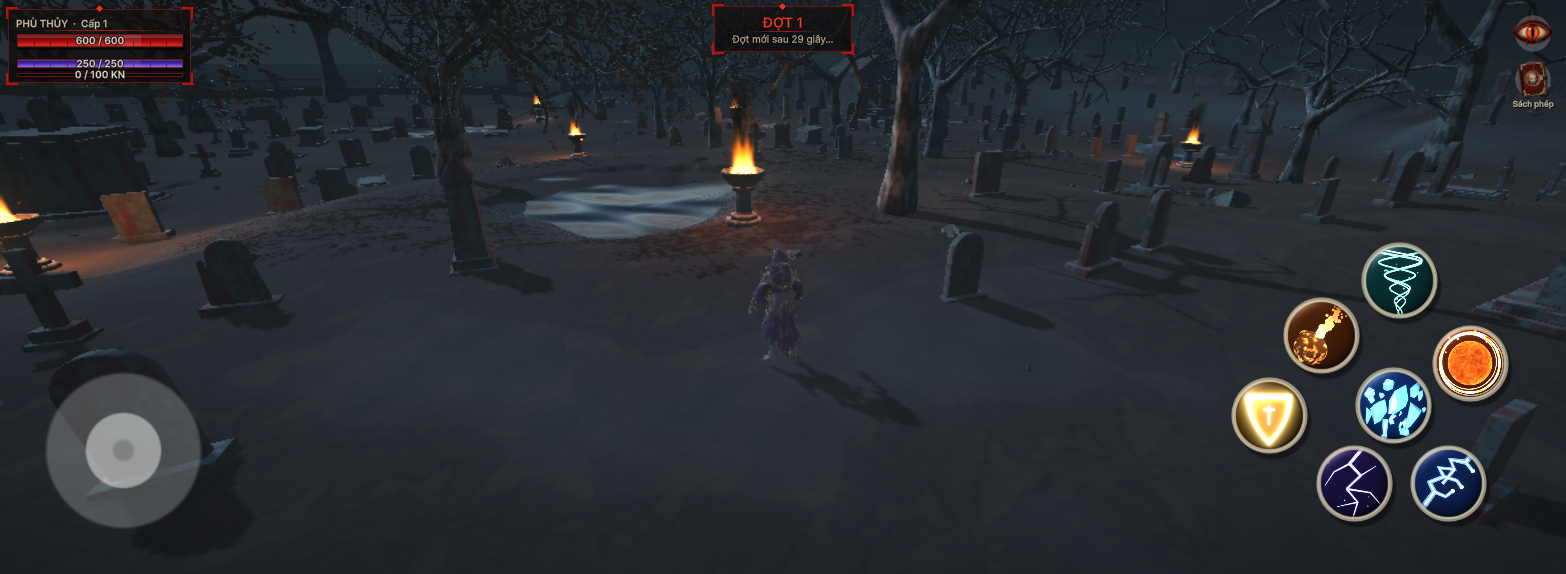
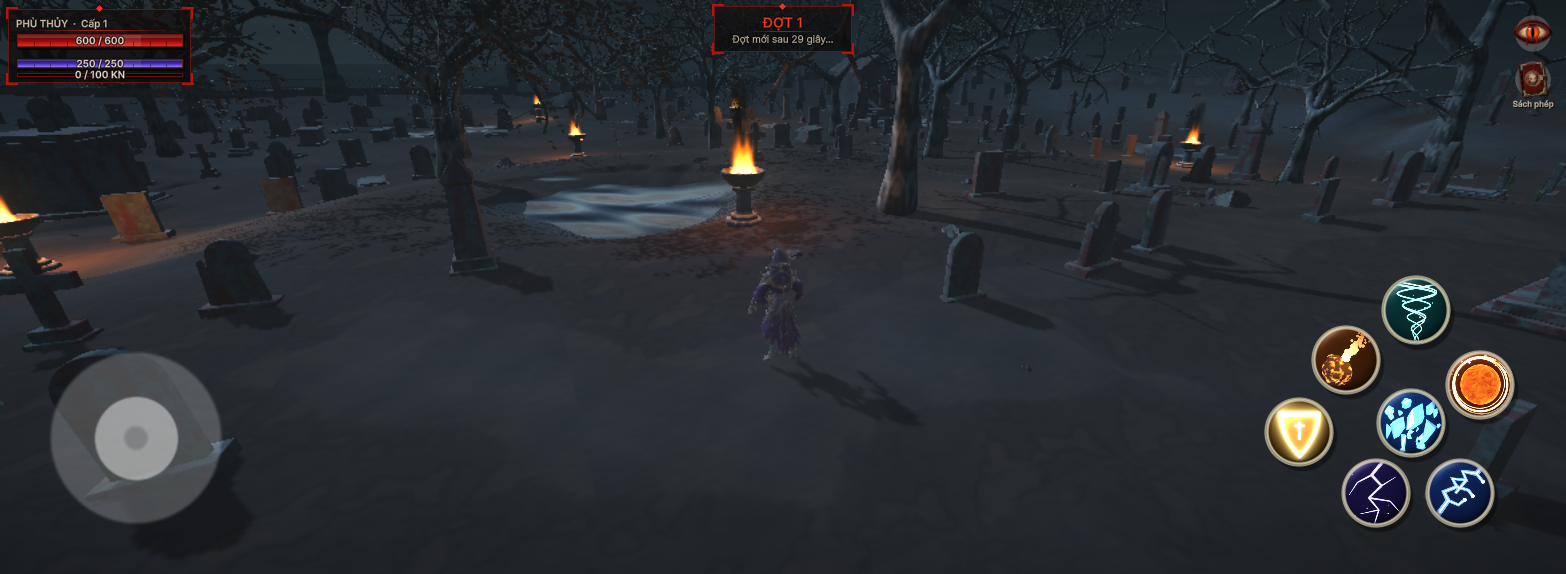
Cum nut ky nang nho bot 10% (tong x1,08); can dieu khien to them 10%
- Nut 72,864 -> 65,578 | le 121,44 -> 109,296 | cung 280,84/470,58/110,68
  -> 252,75/423,52/99,61. Goc giu nguyen.
- Can dieu khien: ban kinh 172,5 -> 189,75 VA tam 232,5 -> 255,75 (giu tam thi
  le tut 60 -> 42,75 va can bi cat o mep). Menu 78 muc A2 kiem.
- Doi chung cua menu 78 phai doc lap voi he so dang chinh: ban cu "thu cum ve
  1/he so" het bat duoc loi khi he so doi 1,2 -> 1,08. Nay la muc co dinh
  "phong rieng nut them 20%" -> chong nhau -9,6.

Changed region(s): [[0.7663, 0.4146, 0.9808, 0.9181], [0.0307, 0.5923, 0.1533, 0.9181], [0.092, 0.8589, 0.1226, 0.8885]]

diff --git a/Assets/Editor/ThuCumNutCamUng.cs b/Assets/Editor/ThuCumNutCamUng.cs
@@ -35,10 +35,18 @@ public static class ThuCumNutCamUng
     static bool truocBat;
     static EnterPlayModeOptions truocOpt;
 
-    /// <summary>Ban kinh nut TRUOC khi nguoi dung xin to them 20% - moc de kiem "to dung 20%".</summary>
+    /// <summary>
+    /// Moc: kich thuoc cum nut va can joystick TRUOC khi nguoi dung xin doi (19/09/2026).
+    /// Nguoi dung xin hai lan trong cung ngay: to them 20%, roi thay to qua nen nho bot 10%
+    /// -> tong cong x1,2 x 0,9 = x1,08. Can joystick to them 10%.
+    /// </summary>
     const float RTruoc = 60.72f;
     const float LeTruoc = 101.2f;
-    const float HeSoXin = 1.20f;
+    const float HeSoXin = 1.20f * 0.90f;
+
+    const float TamJoyTruoc = 232.5f;
+    const float BanKinhJoyTruoc = 172.5f;
+    const float HeSoJoy = 1.10f;
 
     /// <summary>Man hinh that de thu: ten, rong, cao, co phai man NGANG khong.</summary>
     static readonly object[][] ManThu =
@@ -111,11 +119,25 @@ public static class ThuCumNutCamUng
             caoCu = Mathf.Max(caoCu, l.y + RTruoc);
         }
         Ghi("");
-        Ghi(string.Format("A. ban kinh nut {0:F3} (truoc {1:F3} -> x{2:F3}); ca cum {3:F1} x {4:F1} (truoc {5:F1} x {6:F1} -> x{7:F3} va x{8:F3})",
-            r, RTruoc, r / RTruoc, rong, cao, rongCu, caoCu, rong / rongCu, cao / caoCu));
-        Kiem(Mathf.Abs(r / RTruoc - HeSoXin) < 0.001f, "ban kinh nut khong to dung 20%");
-        Kiem(Mathf.Abs(rong / rongCu - HeSoXin) < 0.001f, "be ngang cum khong len dung 20% - cum bi keo meo");
-        Kiem(Mathf.Abs(cao / caoCu - HeSoXin) < 0.001f, "chieu cao cum khong len dung 20% - cum bi keo meo");
+        Ghi(string.Format("A. ban kinh nut {0:F3} (moc {1:F3} -> x{2:F3}, mong x{3:F3}); ca cum {4:F1} x {5:F1} (moc {6:F1} x {7:F1} -> x{8:F3} va x{9:F3})",
+            r, RTruoc, r / RTruoc, HeSoXin, rong, cao, rongCu, caoCu, rong / rongCu, cao / caoCu));
+        Kiem(Mathf.Abs(r / RTruoc - HeSoXin) < 0.001f, "ban kinh nut khong dung ti le da chot");
+        Kiem(Mathf.Abs(rong / rongCu - HeSoXin) < 0.001f, "be ngang cum khong dung ti le - cum bi keo meo");
+        Kiem(Mathf.Abs(cao / caoCu - HeSoXin) < 0.001f, "chieu cao cum khong dung ti le - cum bi keo meo");
+
+        // ---- A2. CAN JOYSTICK to dung 10% va khong bi cat o mep ----
+        float sMoc = 1f;
+        float bkJoy = GameHUD.BanKinhJoystick(sMoc);
+        Vector2 tamJoy = GameHUD.TamJoystick(sMoc);
+        float leJoy = tamJoy.x - bkJoy;                       // tam - ban kinh = le tu goc man hinh
+        float leJoyTruoc = TamJoyTruoc - BanKinhJoyTruoc;
+        Ghi(string.Format("A2. can joystick: ban kinh {0:F2} (moc {1:F2} -> x{2:F3}, mong x{3:F2}); tam {4:F2} (moc {5:F2} -> x{6:F3}); le tu goc man {7:F2} (moc {8:F2})",
+            bkJoy, BanKinhJoyTruoc, bkJoy / BanKinhJoyTruoc, HeSoJoy,
+            tamJoy.x, TamJoyTruoc, tamJoy.x / TamJoyTruoc, leJoy, leJoyTruoc));
+        Kiem(Mathf.Abs(bkJoy / BanKinhJoyTruoc - HeSoJoy) < 0.001f, "can joystick khong to dung 10%");
+        Kiem(Mathf.Abs(tamJoy.x / TamJoyTruoc - HeSoJoy) < 0.001f, "tam can joystick khong dich theo - can se bi cat o mep");
+        Kiem(leJoy > 0f, "can joystick bi cat o mep trai / mep duoi man hinh");
+        Kiem(leJoy > leJoyTruoc, "le cua can joystick khong len theo");
 
         // ---- B. KHONG NUT NAO CHONG NUT NAO ----
         float hepNhat; int iA, iB;
@@ -130,13 +152,20 @@ public static class ThuCumNutCamUng
         Kiem(Mathf.Abs((hepNhat / (r * 2f)) - (hepCu / (RTruoc * 2f))) < 0.001f,
              "ti le cho ho doi - cum khong duoc nhan deu");
 
-        // DOI CHUNG: neu CHI nut to len ma hai cung giu nguyen thi phai CHONG NHAU.
-        // Khong co doi chung nay thi phep do tren luon xanh va khong chung minh duoc gi.
+        // DOI CHUNG - de biet phep do B co bat duoc loi that khong, chu khong phai luc nao cung xanh:
+        // lay chinh cum nay ma phong to RIENG cai nut them 20% (hai cung giu nguyen) - dung cai loi ma
+        // comment trong GameHUD canh bao - thi phai ra CHONG NHAU.
+        //
+        // ⚠ Ban dau doi chung nay la "cum thu ve 1/HeSoXin, nut giu nguyen". No dung khi HeSoXin con la
+        // 1,2; den khi nguoi dung xin nho bot 10% (HeSoXin = 1,08) thi cach ay chi lam nut to 8% - khong
+        // du de chong nhau, va doi chung bao "van con ho" (lan chay 19/09/2026). Doi chung phai dung mot
+        // muc phong to CO DINH, khong an theo con so dang chinh.
+        const float PhongToThu = 1.20f;
         int cA, cB;
-        float hepSai = ChoHepNhat(1f / HeSoXin, r, out cA, out cB);
-        Ghi(string.Format("B2. DOI CHUNG (chi nut to, hai cung giu nguyen): cho hep nhat {0:F1} giua nut {1} va nut {2} -> {3}",
+        float hepSai = ChoHepNhat(1f, r * PhongToThu, out cA, out cB);
+        Ghi(string.Format("B2. DOI CHUNG (phong to RIENG cai nut them 20%, hai cung giu nguyen): cho hep nhat {0:F1} giua nut {1} va nut {2} -> {3}",
             hepSai, cA + 1, cB + 1, hepSai <= 0f ? "CHONG NHAU dung nhu mong doi" : "van con ho (phep do B khong bat duoc loi!)"));
-        Kiem(hepSai <= 0f, "doi chung hong: nut to len ma cung giu nguyen van khong chong nhau - phep do B vo nghia");
+        Kiem(hepSai <= 0f, "doi chung hong: nut to them 20% ma cung giu nguyen van khong chong nhau - phep do B vo nghia");
 
         // ---- C. KHONG TRAN MEP PHAI / MEP DUOI ----
         Ghi("");
@@ -185,7 +214,7 @@ public static class ThuCumNutCamUng
 
         // ---- D. KHONG DE LEN JOYSTICK ----
         Ghi("");
-        Ghi("D. khoang cach toi can joystick (goc trai duoi)");
+        Ghi("D. khoang cach toi can joystick (goc trai duoi) - can da to them 10% nen cho ho hep hon truoc");
         foreach (var m in ManThu)
         {
             string ten = (string)m[0];

diff --git a/Assets/Scripts/UI/GameHUD.cs b/Assets/Scripts/UI/GameHUD.cs
@@ -281,8 +281,10 @@ public partial class GameHUD : MonoBehaviour
     /// <summary>Ti le man hinh dung cho ca HUD: thiet ke theo man cao 1080. Phep thu doc ham nay, khong chep cong thuc.</summary>
     public static float TiLeMan(float caoMan) { return caoMan / Ref; }
 
-    public static Vector2 TamJoystick(float s) { return new Vector2(232.5f * s, 232.5f * s); }
-    public static float BanKinhJoystick(float s) { return 172.5f * s; }
+    // 19/09/2026 nguoi dung xin can dieu khien TO THEM 10%: nhan ca TAM lan ban kinh, nhu vay
+    // le tu goc man hinh (tam - ban kinh = 60 -> 66) cung len theo va can khong bi cat o mep.
+    public static Vector2 TamJoystick(float s) { return new Vector2(255.75f * s, 255.75f * s); }
+    public static float BanKinhJoystick(float s) { return 189.75f * s; }
 
     /// <summary>
     /// Doc cham/chuot cho can joystick va cac nut ky nang.
@@ -1028,9 +1030,9 @@ public partial class GameHUD : MonoBehaviour
     /// Le tu goc man hinh toi TAM cua cung. Phai lon hon ban kinh nut, khong
     /// thi nut trong cung bi cat mat mot mieng o mep man hinh.
     /// </summary>
-    const float Le = 121.44f;
+    const float Le = 109.296f;
 
-    float BanKinhNut(float s) { return 72.864f * s; }
+    float BanKinhNut(float s) { return 65.5776f * s; }
 
     /// <summary>
     /// Tam cua nut ky nang thu <paramref name="i"/>, tinh theo GOC PHAI DUOI.
@@ -1057,7 +1059,8 @@ public partial class GameHUD : MonoBehaviour
         // ke - gan nhu dinh nhau. Nhan TAT CA cho cung mot he so (ke ca le) thi
         // moi khoang cach cung len theo, ti le ho giu y nguyen nhu truoc.
         //
-        // Da nhan BA lan: 1,1 roi 1,15 roi 1,2 (nguoi dung 19/09/2026 xin to them 20%).
+        // Da nhan: 1,1 roi 1,15 roi 1,2 (19/09/2026 xin to them 20%), roi x0,9 cung ngay hom ay
+        // vi nguoi dung thay "hoi bi to qua" - tong cong x1,08 so voi truoc lan xin to.
         // Goc thi GIU NGUYEN - chi ban kinh doi.
         //
         // So do hien tai (menu 78 do, khong chep tay): cung trong R=280,84s buoc 34 do;
@@ -1091,7 +1094,7 @@ public partial class GameHUD : MonoBehaviour
         // NUT THU BAY nam o mot cung RIENG, trong cung, sat goc man hinh.
         if (i == 6)
         {
-            const float banBay = 110.676f;
+            const float banBay = 99.6084f;
             const float gocBay = 26.1f;
             float radBay = gocBay * Mathf.Deg2Rad;
             return new Vector2(Le + Mathf.Cos(radBay) * banBay,
@@ -1099,7 +1102,7 @@ public partial class GameHUD : MonoBehaviour
         }
 
         bool trong = i < 3;
-        float ban = trong ? 280.836f : 470.58f;
+        float ban = trong ? 252.7524f : 423.522f;
         int k = trong ? i : i - 3;
 
         // Trai ra (goc lon) den len tren (goc nho)
@@ -1119,7 +1122,7 @@ public partial class GameHUD : MonoBehaviour
     /// </summary>
     public static void HinhHocCumNut(out float banKinhNut, out float rong, out float cao)
     {
-        banKinhNut = 72.864f;
+        banKinhNut = 65.5776f;
         rong = 0f; cao = 0f;
         for (int i = 0; i < SoNut; i++)
         {

diff --git a/CLAUDE.md b/CLAUDE.md
@@ -296,11 +296,15 @@ Bảng đầy đủ nằm ở mục "Phần 4" trong `HUONG-DAN.md`.
   nhân "chỉ số × chiều cao hàng" (phép thử menu 59 hỏi `CuaSoSachPhep.VungHangKyNang`). Số hiệu kỹ năng KHÔNG đổi.
   ⚠ Thứ tự ô ghi **thẳng localStorage** trên WebGL (`CD_DocChuoi/CD_GhiChuoi` trong `CauNoiCaiDat.jslib`, 14/09/2026) — PlayerPrefs
   WebGL ghi không đồng bộ, đóng tab ngay là mất; ngoài WebGL vẫn PlayerPrefs.
-- ⚠ **CỤM 7 NÚT TRÒN (cảm ứng) to thêm 20%** (người dùng 19/09/2026): bán kính nút **72,864**, lề **121,44**,
-  cung trong **280,84** · ngoài **470,58** · nút thứ bảy **110,68**; góc GIỮ NGUYÊN. Phóng to thì phải nhân
-  **tất cả** cho cùng hệ số kể cả LỀ — chỉ nút to mà cung giữ nguyên là các nút chồng nhau (menu 78 có đối chứng:
-  chỗ hở −8,9). Cả cụm 630,6 × 624,2; hở hẹp nhất 18,5 / đường kính 145,7. Màn NGANG không tràn mép nào (hẹp nhất
-  844×390: dư 38,6 phải · 35,1 dưới); màn DỌC vượt mép trái 102,8 (bản cũ cũng vượt 20,7 — bản cảm ứng chơi ngang).
+- ⚠ **CỤM 7 NÚT TRÒN (cảm ứng) ×1,08 và CẦN ĐIỀU KHIỂN ×1,10** (người dùng 19/09/2026, xin hai lần: to 20%
+  rồi thấy to quá nên nhỏ bớt 10%): nút **65,578**, lề **109,296**, cung trong **252,75** · ngoài **423,52** ·
+  nút thứ bảy **99,61**; cần điều khiển bán kính **189,75**, tâm **255,75**, lề 66. Góc GIỮ NGUYÊN. Đổi cỡ thì phải
+  nhân **tất cả** cho cùng hệ số kể cả LỀ (và với cần điều khiển là cả TÂM — giữ tâm thì lề tụt 60 → 42,75 và cần bị
+  cắt ở mép); chỉ nút to mà cung giữ nguyên là các nút chồng nhau. Cả cụm 567,6 × 561,8; hở hẹp nhất 16,6 / đường
+  kính 131,2; cụm cách cần điều khiển ≥ 303,7 px. Màn NGANG không tràn mép nào (hẹp nhất 844×390: dư 34,8 phải ·
+  31,6 dưới); màn DỌC vượt mép trái 53,5 (bản gốc cũng vượt 20,7 — bản cảm ứng chơi ngang).
+  ⚠ **Đối chứng của menu 78 phải độc lập với hệ số đang chỉnh**: bản đầu là "thu cụm về 1/hệ số" nên khi hệ số
+  đổi 1,2 → 1,08 thì nó hết bắt được lỗi mà vẫn im lặng. Nay là mức cố định "phóng riêng nút thêm 20%" (ra −9,6).
   ⚠ Chụp ảnh bản cảm ứng phải đặt **`hud.epCamUng`**, không phải `CamUng.EpBat`: `GameHUD.Update` ghi đè
   `CamUng.EpBat = epCamUng` mỗi khung nên ảnh ra bản máy tính. Menu 78 kiểm.
 - ⚠ **BỘ BIỂU TƯỢNG KỸ NĂNG chỉ có MỘT BẢNG**: `IconKyNang.BoDayDu()` (xếp theo số hiệu, dài `CapDo.SoKyNang`).
